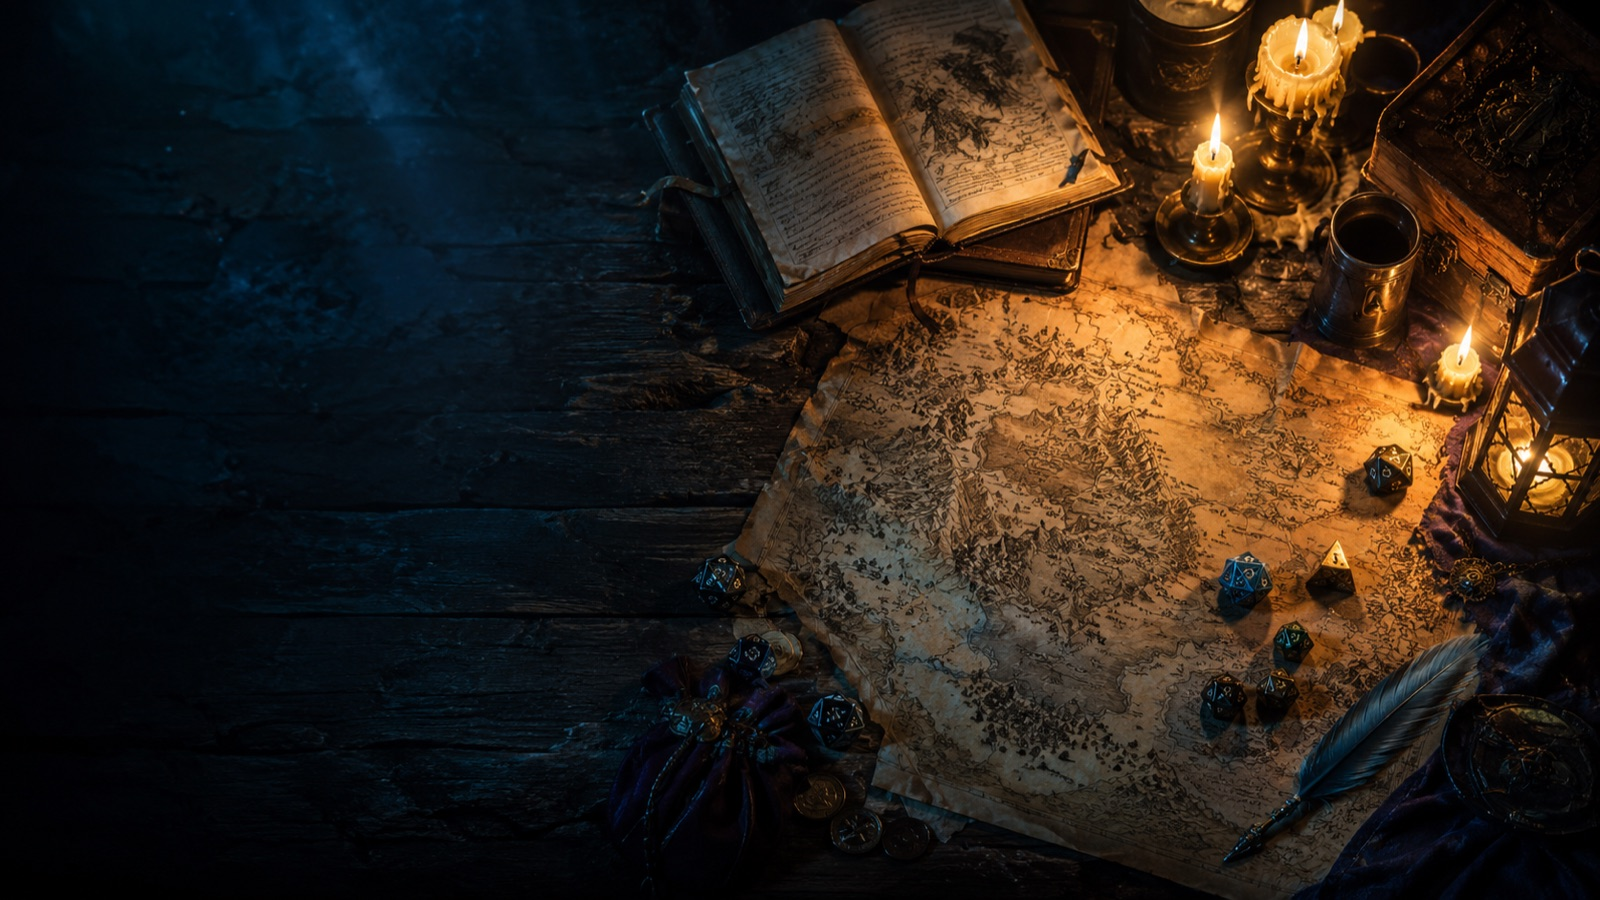
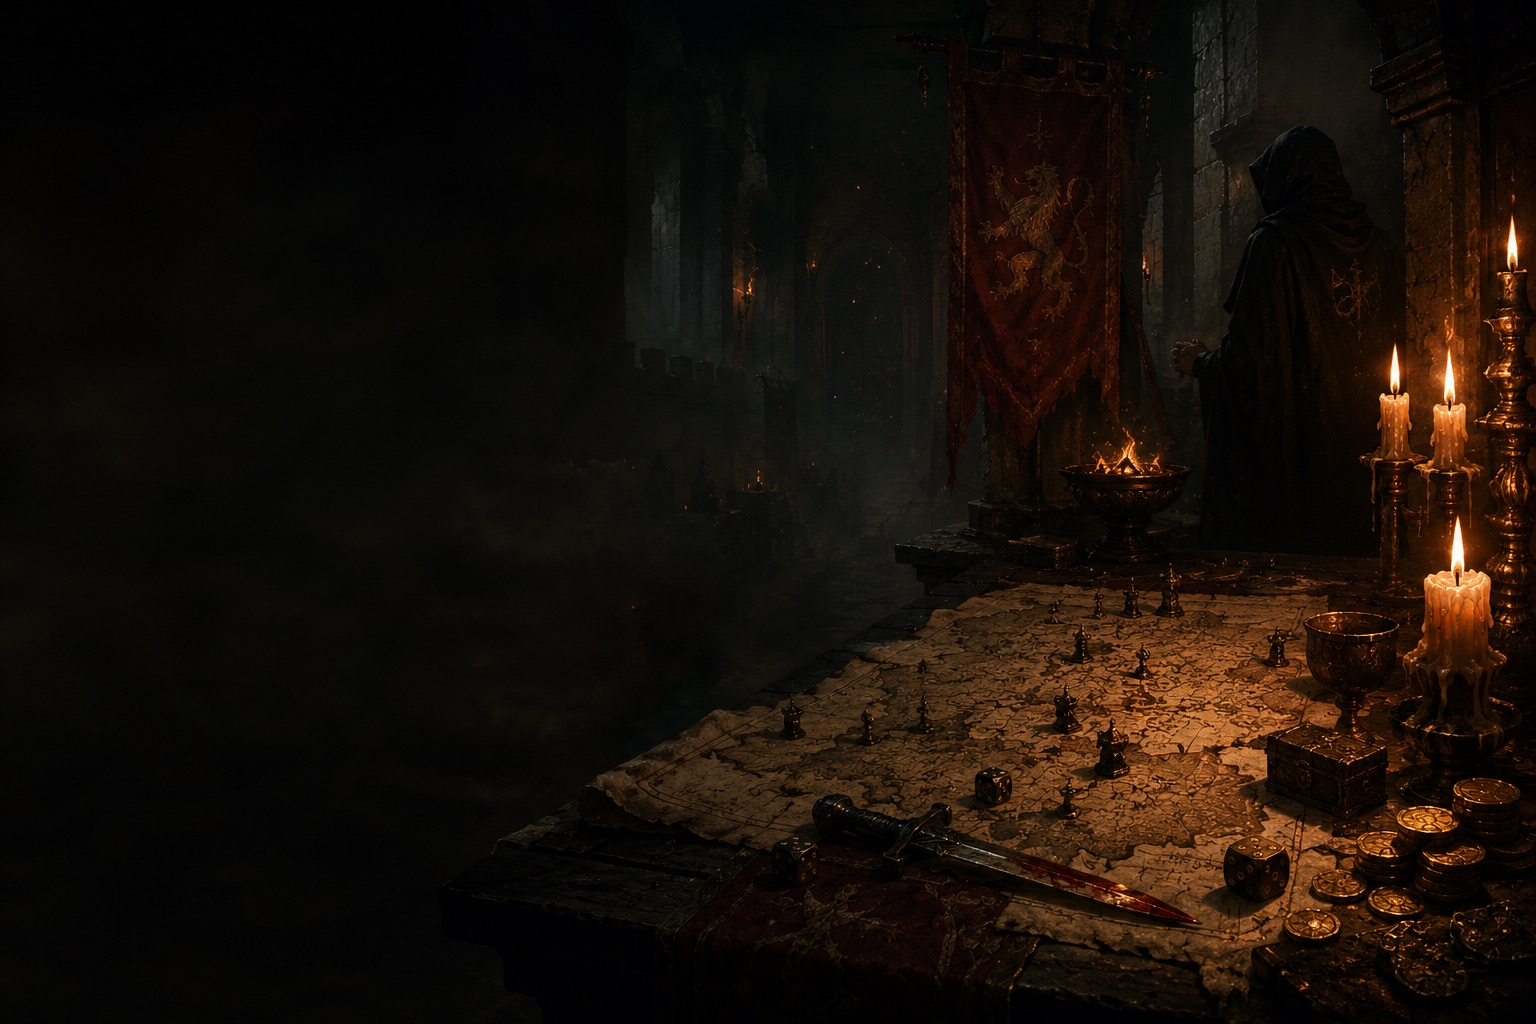
feat: Diablo-style hero illustrations on home + hubs + tools
- Replace home hero with darker war-table key art
- New .hero-band.has-art helper (warm scrim + vignette over --hero-art)
- Wire illustrations into story-generators, rpg-tools hubs and dungeon,
  magic-item, settlement tool pages (GPT-image art, optimized to JPEG)

diff --git a/app/rpg-tools/dungeon-generator/page.tsx b/app/rpg-tools/dungeon-generator/page.tsx
@@ -24,7 +24,14 @@ export const metadata: Metadata = {
 export default function DungeonGeneratorPage() {
   return (
     <main>
-      <section className="hero-band">
+      <section
+        className="hero-band has-art"
+        style={
+          {
+            "--hero-art": "url(/illustrations/hero-dungeon.jpg)",
+          } as React.CSSProperties
+        }
+      >
         <div className="wrap">
           <div className="eyebrow">
             <span className="dot" /> Free Dungeon Generator · no login
@@ -32,8 +39,8 @@ export default function DungeonGeneratorPage() {
           <h1>Dungeon Generator</h1>
           <p className="lead" style={{ maxWidth: 760 }}>
             Drop a dungeon onto the table in seconds — a premise, a room-by-room
-            walkthrough, a boss, treasure, and a hook to what&apos;s next. Pick a
-            type, size, and party level, or let the AI surprise you. Built for
+            walkthrough, a boss, treasure, and a hook to what&apos;s next. Pick
+            a type, size, and party level, or let the AI surprise you. Built for
             D&amp;D, Pathfinder, and any tabletop RPG.
           </p>
         </div>
@@ -45,11 +52,12 @@ export default function DungeonGeneratorPage() {
         <div style={{ marginTop: 36, maxWidth: 760 }}>
           <h2>How the dungeon generator works</h2>
           <p className="lead">
-            Choose a dungeon type, size, setting, and party level — or leave them
-            blank — and generate a complete crawl. Rooms vary between fights,
-            puzzles, hazards, and discoveries, and the boss has a motive, not
-            just hit points. Everything is system-agnostic, so it runs in any
-            ruleset. Hit <strong>Regenerate</strong> for a new layout.
+            Choose a dungeon type, size, setting, and party level — or leave
+            them blank — and generate a complete crawl. Rooms vary between
+            fights, puzzles, hazards, and discoveries, and the boss has a
+            motive, not just hit points. Everything is system-agnostic, so it
+            runs in any ruleset. Hit <strong>Regenerate</strong> for a new
+            layout.
           </p>
           <p className="lead" style={{ marginTop: 16 }}>
             Fill it out: add a{" "}
@@ -57,8 +65,8 @@ export default function DungeonGeneratorPage() {
             <Link href="/rpg-tools/random-encounter-generator">
               random encounter
             </Link>
-            , or the{" "}
-            <Link href="/rpg-tools/npc-generator">NPC</Link> who lurks inside.
+            , or the <Link href="/rpg-tools/npc-generator">NPC</Link> who lurks
+            inside.
           </p>
         </div>
 

diff --git a/app/rpg-tools/settlement-generator/page.tsx b/app/rpg-tools/settlement-generator/page.tsx
@@ -24,17 +24,24 @@ export const metadata: Metadata = {
 export default function SettlementGeneratorPage() {
   return (
     <main>
-      <section className="hero-band">
+      <section
+        className="hero-band has-art"
+        style={
+          {
+            "--hero-art": "url(/illustrations/hero-settlement.jpg)",
+          } as React.CSSProperties
+        }
+      >
         <div className="wrap">
           <div className="eyebrow">
             <span className="dot" /> Free Settlement Generator · no login
           </div>
           <h1>Settlement &amp; Town Generator</h1>
           <p className="lead" style={{ maxWidth: 760 }}>
-            Conjure a place the party can actually walk into — a hamlet, village,
-            town, or city with a distinct vibe, notable locations, people worth
-            meeting, and trouble brewing. Built for D&amp;D, Pathfinder, and any
-            tabletop RPG.
+            Conjure a place the party can actually walk into — a hamlet,
+            village, town, or city with a distinct vibe, notable locations,
+            people worth meeting, and trouble brewing. Built for D&amp;D,
+            Pathfinder, and any tabletop RPG.
           </p>
         </div>
       </section>
@@ -45,10 +52,10 @@ export default function SettlementGeneratorPage() {
         <div style={{ marginTop: 36, maxWidth: 760 }}>
           <h2>How the settlement generator works</h2>
           <p className="lead">
-            Pick a settlement type, vibe, and setting — or leave them blank — and
-            generate a place with three notable locations, two or three NPCs with
-            hooks, and a local problem the party can get pulled into. It&apos;s
-            specific and system-agnostic, ready to run on the fly. Hit{" "}
+            Pick a settlement type, vibe, and setting — or leave them blank —
+            and generate a place with three notable locations, two or three NPCs
+            with hooks, and a local problem the party can get pulled into.
+            It&apos;s specific and system-agnostic, ready to run on the fly. Hit{" "}
             <strong>Regenerate</strong> for a new town.
           </p>
           <p className="lead" style={{ marginTop: 16 }}>

diff --git a/app/rpg-tools/magic-item-generator/page.tsx b/app/rpg-tools/magic-item-generator/page.tsx
@@ -24,17 +24,24 @@ export const metadata: Metadata = {
 export default function MagicItemGeneratorPage() {
   return (
     <main>
-      <section className="hero-band">
+      <section
+        className="hero-band has-art"
+        style={
+          {
+            "--hero-art": "url(/illustrations/hero-magic-item.jpg)",
+          } as React.CSSProperties
+        }
+      >
         <div className="wrap">
           <div className="eyebrow">
             <span className="dot" /> Free Magic Item Generator · no login
           </div>
           <h1>Magic Item Generator</h1>
           <p className="lead" style={{ maxWidth: 760 }}>
-            Reward your party with loot worth remembering. Generate five original
-            magic items — each with a name, rarity, type, a plain-language
-            effect, and a story hook. Built for D&amp;D, Pathfinder, and any
-            tabletop RPG.
+            Reward your party with loot worth remembering. Generate five
+            original magic items — each with a name, rarity, type, a
+            plain-language effect, and a story hook. Built for D&amp;D,
+            Pathfinder, and any tabletop RPG.
           </p>
         </div>
       </section>
@@ -56,9 +63,9 @@ export default function MagicItemGeneratorPage() {
             <Link href="/rpg-tools/random-encounter-generator">
               random encounter
             </Link>
-            , or build the{" "}
-            <Link href="/rpg-tools/npc-generator">NPC</Link> who guards it and
-            save it all to a <Link href="/campaigns">campaign</Link>.
+            , or build the <Link href="/rpg-tools/npc-generator">NPC</Link> who
+            guards it and save it all to a{" "}
+            <Link href="/campaigns">campaign</Link>.
           </p>
         </div>
 

diff --git a/app/globals.css b/app/globals.css
@@ -284,6 +284,17 @@ a:hover { text-shadow: 0 0 16px rgba(255, 106, 31, 0.55); }
 }
 .hero-band .wrap { position: relative; z-index: 1; }
 
+/* Hero with a Diablo-style illustration: pass the image via --hero-art inline.
+   A warm left-to-dark scrim keeps the left-aligned headline readable while the
+   art (composed to the right) shows through; the ::after vignette deepens edges. */
+.hero-band.has-art {
+  background:
+    linear-gradient(90deg, var(--bg) 6%, rgba(10, 7, 5, 0.62) 46%, rgba(10, 7, 5, 0.12) 100%),
+    linear-gradient(0deg, var(--bg) 1%, transparent 62%),
+    var(--hero-art) right center / cover no-repeat;
+  min-height: 340px;
+}
+
 /* Inputs: ember focus ring (overrides the default ring). */
 input:focus, select:focus, textarea:focus {
   border-color: rgba(255, 106, 31, 0.7);

diff --git a/app/rpg-tools/page.tsx b/app/rpg-tools/page.tsx
@@ -66,7 +66,14 @@ export default function RpgToolsHub() {
         type="application/ld+json"
         dangerouslySetInnerHTML={{ __html: JSON.stringify(itemListJsonLd) }}
       />
-      <section className="hero-band">
+      <section
+        className="hero-band has-art"
+        style={
+          {
+            "--hero-art": "url(/illustrations/hero-rpg-tools.jpg)",
+          } as React.CSSProperties
+        }
+      >
         <div className="wrap">
           <div className="eyebrow">
             <span className="dot" /> Free AI tools for tabletop Game Masters

diff --git a/app/story-generators/page.tsx b/app/story-generators/page.tsx
@@ -42,7 +42,14 @@ export default function StoryGeneratorsHub() {
         type="application/ld+json"
         dangerouslySetInnerHTML={{ __html: JSON.stringify(itemListJsonLd) }}
       />
-      <section className="hero-band">
+      <section
+        className="hero-band has-art"
+        style={
+          {
+            "--hero-art": "url(/illustrations/hero-story-generators.jpg)",
+          } as React.CSSProperties
+        }
+      >
         <div className="wrap">
           <div className="eyebrow">
             <span className="dot" /> Free AI story generators · no login